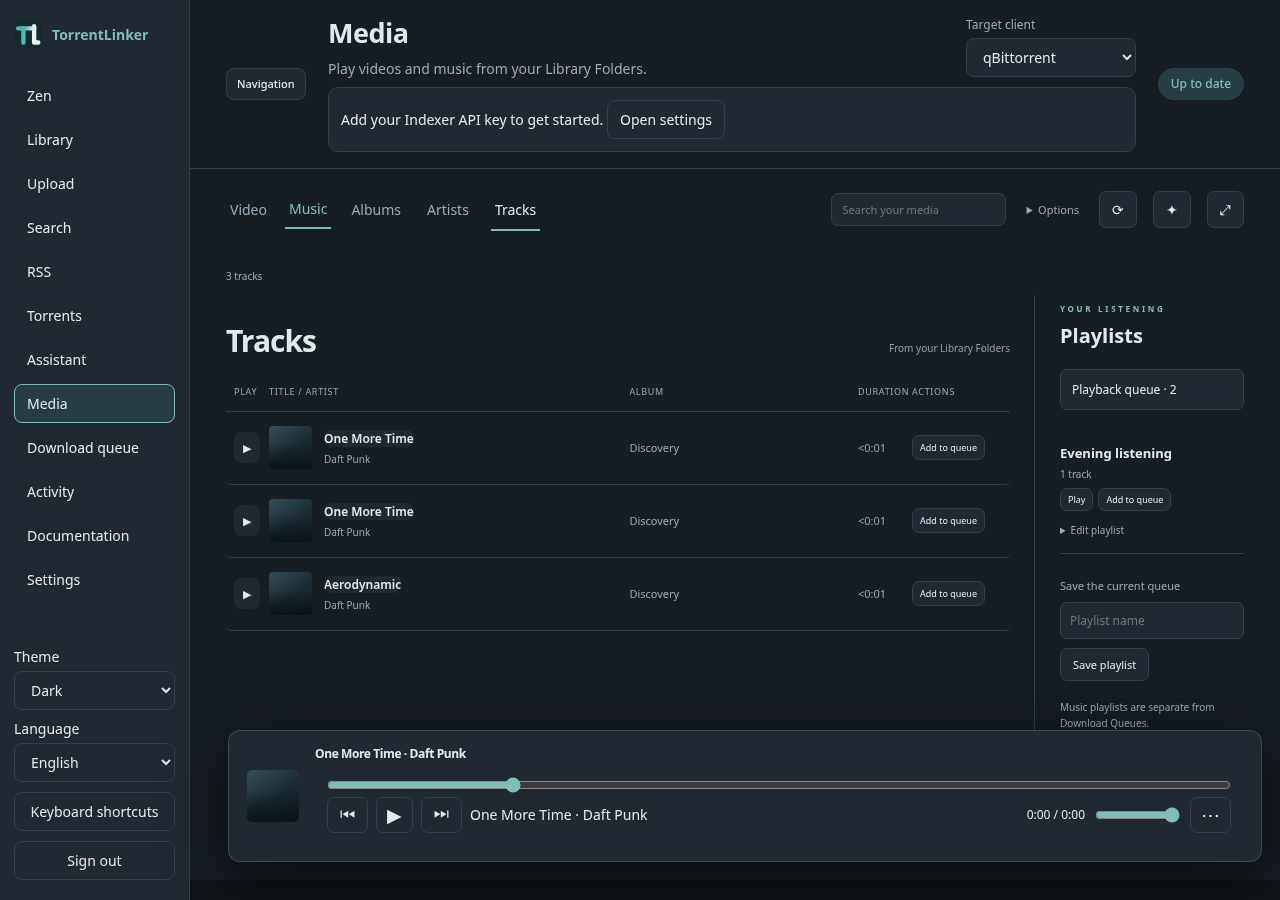
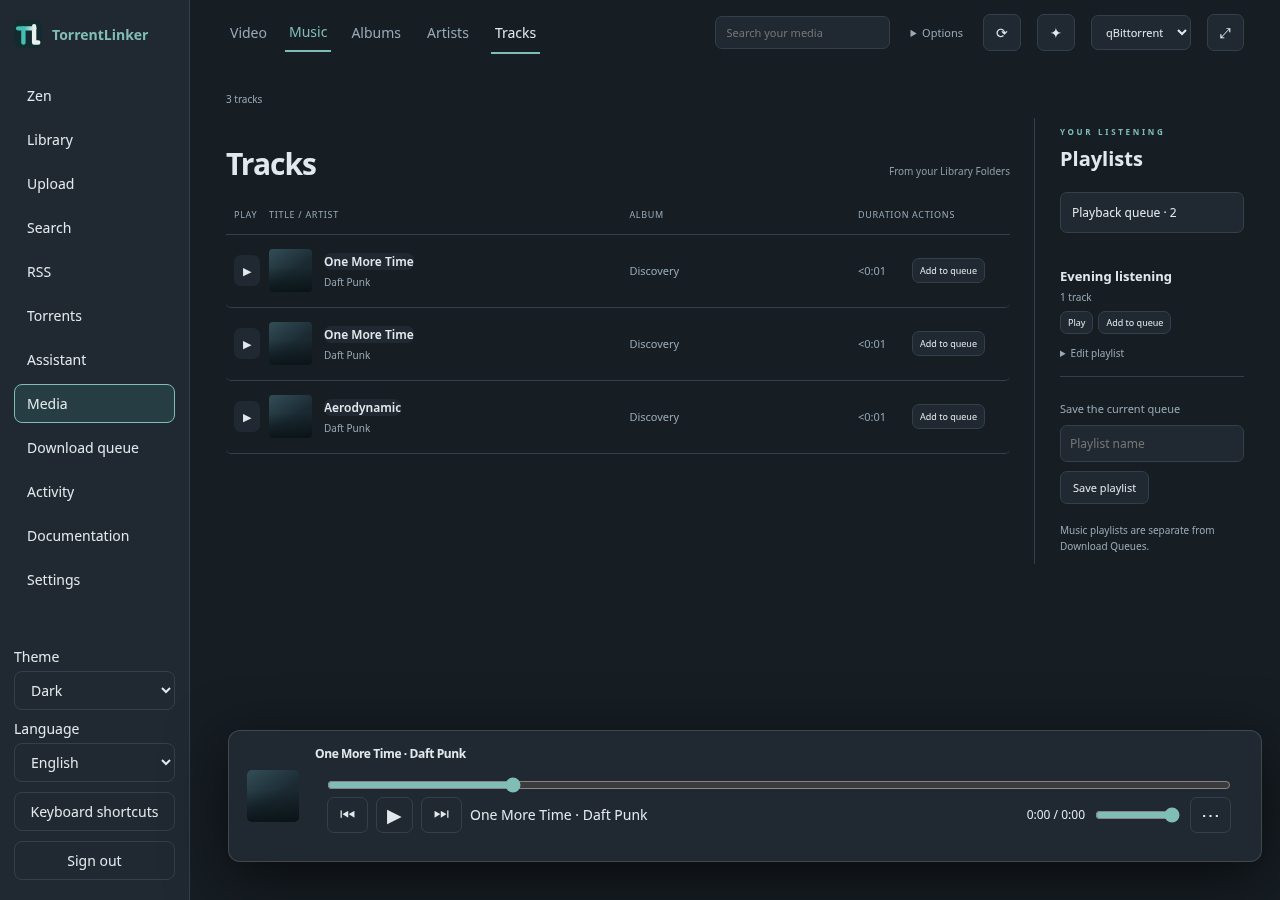
Release 1.0.0-beta.46

diff --git a/docs/guide/fr/media.md b/docs/guide/fr/media.md
@@ -8,7 +8,7 @@ L’onglet **Animés**, après Séries, regroupe les animés à part des Films e
 
 Quand **Afficher le contenu XXX** est activé dans les paramètres, un onglet **XXX** s’ajoute à Accueil, Films et Séries. Il ne montre que les médias des dossiers de bibliothèque de type XXX, qui n’apparaissent jamais dans les autres onglets, dans Reprendre la lecture ni dans les outils médias de l’assistant. Sans ce réglage, ces médias restent masqués.
 
-L'**Accueil cinéma** est l'interface vidéo par défaut : un titre mis en avant, une rangée pour reprendre la lecture et des affiches. Choisissez **Focus** pour une grande fiche du titre sélectionné et une bande de sélection, ou **Horizon**, inspiré d'Aeon Nox de Kodi : l'illustration du titre sélectionné remplit l'écran derrière des panneaux givrés avec ses repères de fichier (résolution, HDR, codec, audio), et l'affiche choisie s'agrandit. La **Vue Horizon** des paramètres choisit son écran : **Accueil** (une grande fiche au-dessus de rangées d'affiches), **Showcase** (un titre et un carrousel) ou **Mur** (un mur d'affiches dense ; une affiche s'affiche dans le bandeau du haut, un double-clic ouvre sa fiche) ; les **Options** de Médias la changent aussi, à côté de la disposition. Horizon a son propre lecteur : une barre fine pendant la lecture et la fiche du film en pause. Horizon reste sombre quel que soit le thème. Une disposition enregistrée en Collection par une version précédente ouvre le Mur d'Horizon. Le choix se règle dans **Interface des médias** dans les paramètres desktop, ou **Disposition des médias** dans les paramètres d'interface web. Le sélecteur de la vue Médias modifie la même préférence. L'application desktop mémorise ce choix dans ses paramètres ; chaque navigateur conserve le sien, comme pour le thème. Changer de disposition conserve la lecture, la file et le chat. Le menu compact donne accès aux dispositions et aux **Options de la bibliothèque** sur desktop, ou aux **Options** sur le web pour gérer les dossiers et les filtres. La commande de recherche ouvre un champ intégré. La fiche d'un titre présente ses versions, ses épisodes et, si disponible, l'aperçu partiel explicite. Les images et descriptions dépendent des métadonnées disponibles.
+Médias n'a pas d'en-tête de page : son menu contient le sélecteur **Client cible**, à gauche du bouton Media Center. L'**Accueil cinéma** est l'interface vidéo par défaut : un titre mis en avant, une rangée pour reprendre la lecture et des affiches. Le titre reste en haut pendant que les rangées défilent dessous ; la molette sur une rangée la fait défiler de côté, et un cran de molette vers le haut sur le titre fait revenir le menu. Choisissez **Focus** pour une grande fiche du titre sélectionné et une bande de sélection, ou **Horizon**, inspiré d'Aeon Nox de Kodi : l'illustration du titre sélectionné remplit l'écran derrière des panneaux givrés avec ses repères de fichier (résolution, HDR, codec, audio), et l'affiche choisie s'agrandit. La **Vue Horizon** des paramètres choisit son écran : **Accueil** (le titre au-dessus d'une catégorie d'affiches : la catégorie se choisit depuis son titre, la molette déplace la sélection et l'affiche choisie s'élève dans une lumière douce ; **Voir tout** ouvre la grille du Mur), **Showcase** (un titre et un carrousel que la molette parcourt) ou **Mur** (un mur d'affiches dense ; une affiche s'affiche dans le bandeau du haut, un double-clic ouvre sa fiche) ; les **Options** de Médias la changent aussi, à côté de la disposition. Horizon a son propre lecteur : une barre fine pendant la lecture et la fiche du film en pause. Horizon reste sombre quel que soit le thème. Une disposition enregistrée en Collection par une version précédente ouvre le Mur d'Horizon. Le choix se règle dans **Interface des médias** dans les paramètres desktop, ou **Disposition des médias** dans les paramètres d'interface web. Le sélecteur de la vue Médias modifie la même préférence. L'application desktop mémorise ce choix dans ses paramètres ; chaque navigateur conserve le sien, comme pour le thème. Changer de disposition conserve la lecture, la file et le chat. Le menu compact donne accès aux dispositions et aux **Options de la bibliothèque** sur desktop, ou aux **Options** sur le web pour gérer les dossiers et les filtres. Les grilles chargent la suite au fil du défilement. La commande de recherche ouvre un champ intégré. La fiche d'un titre présente ses versions, ses épisodes et, si disponible, l'aperçu partiel explicite. Les images et descriptions dépendent des métadonnées disponibles.
 
 Choisissez **Mode Media Center** dans Médias pour afficher toute l’application en plein écran et masquer sa navigation habituelle. La navigation vidéo et musique, le lecteur et la discussion restent accessibles. Utilisez **Revenir à TorrentLinker** ou **Échap** pour retrouver l’interface normale. Ce mode est distinct du plein écran du lecteur seul.
 

diff --git a/docs/guide/en/media.md b/docs/guide/en/media.md
@@ -30,7 +30,7 @@ The **Anime** tab, after Series, gathers anime apart from Films and Series: rece
 
 With **Show XXX content** enabled in Settings, an **XXX** tab joins Home, Films and Series. It shows only media from Library Folders of the XXX kind, which never appear in the other tabs, in Continue watching or in the Assistant's media tools. Without the setting, that media stays hidden.
 
-**Cinematic home** is the default video interface, with a featured title, continue-watching row and posters. Choose **Focus** for a large selected-title view with a compact selection strip, or **Horizon**, inspired by Kodi's Aeon Nox: the selected title's artwork fills the screen behind frosted panels with its file flags (resolution, HDR, codec, audio), and the chosen poster grows. **Horizon view** in Settings picks its screen: **Home** (a large banner over poster rows), **Showcase** (one title with a carousel) or **Wall** (a dense poster wall; a poster shows its title in the band above, double-click opens its details); Media's **Options** switches it too, next to the layout. Horizon has its own player: a slim bar while the film plays and its details when paused. Horizon stays dark whatever the theme. Media layout saved as Collection by an earlier version opens Horizon's Wall. Change **Media interface** in desktop Settings or **Media layout** in the web Interface settings; the selector in Media changes the same preference. Desktop remembers it in the app settings, while each browser remembers its own choice, like its theme. Changing layouts keeps playback, the queue and chat active. Use the compact menu for layout choices and **Library options** on desktop, or **Options** on the web for folder maintenance and additional filters. The search control opens an integrated search field. Title details include releases, episodes and explicit partial-preview actions where available. Artwork and descriptions depend on available library metadata.
+Media has no page header: its menu holds the **Target client** selector, left of the Media Center button. **Cinematic home** is the default video interface, with a featured title, continue-watching row and posters. The title stays at the top while the rows scroll beneath it; the wheel over a row scrolls that row sideways, and one wheel-up over the title brings the menu back. Choose **Focus** for a large selected-title view with a compact selection strip, or **Horizon**, inspired by Kodi's Aeon Nox: the selected title's artwork fills the screen behind frosted panels with its file flags (resolution, HDR, codec, audio), and the chosen poster grows. **Horizon view** in Settings picks its screen: **Home** (the title over one category of posters: pick the category from its title, the wheel moves the selection, and the chosen poster lifts in a soft light; **See all** opens the Wall's grid), **Showcase** (one title with a carousel the wheel moves through) or **Wall** (a dense poster wall; a poster shows its title in the band above, double-click opens its details); Media's **Options** switches it too, next to the layout. Horizon has its own player: a slim bar while the film plays and its details when paused. Horizon stays dark whatever the theme. Media layout saved as Collection by an earlier version opens Horizon's Wall. Change **Media interface** in desktop Settings or **Media layout** in the web Interface settings; the selector in Media changes the same preference. Desktop remembers it in the app settings, while each browser remembers its own choice, like its theme. Changing layouts keeps playback, the queue and chat active. Use the compact menu for layout choices and **Library options** on desktop, or **Options** on the web for folder maintenance and additional filters. Grids load more titles as you scroll. The search control opens an integrated search field. Title details include releases, episodes and explicit partial-preview actions where available. Artwork and descriptions depend on available library metadata.
 
 Choose **Media Center mode** in Media to make the whole app fullscreen and hide its normal navigation. Video and music browsing, the player and chat stay available. Use **Return to TorrentLinker** or **Escape** to restore the normal interface. This mode is separate from player-only fullscreen.
 

diff --git a/docs/guide/fr/recherche.md b/docs/guide/fr/recherche.md
@@ -17,7 +17,7 @@ La page reprend la structure de la page torrents de c411, avec les couleurs et l
 
 - **En-tête.** Le choix **Compact / Confortable**, **Affiches** et le bouton **File de téléchargement (N)**. Vos choix sont mémorisés.
 - **Barre de recherche.** Un grand champ pour le titre, le titre original ou le nom de release. Dans Films & Vidéos, **Casting & équipe** cherche aussi parmi les acteurs, réalisateurs et scénaristes.
-- **Pastilles de catégorie.** *Tout* et une pastille par catégorie, avec les totaux de c411. Une pastille filtre aussitôt. Le menu **Catégorie** en dessous choisit une sous-catégorie.
+- **Pastilles de catégorie.** *Tout* et une pastille par catégorie, avec les totaux de c411. Une pastille filtre aussitôt. Le menu **Catégorie** en dessous choisit une sous-catégorie de la pastille choisie ; il est masqué sous *Tout*. Activer le contenu adulte affiche XXX sans recharger.
 - **Filtres.** Des boutons arrondis qui ouvrent une liste à cocher avec recherche (résolution, source, codec, HDR, audio, canaux, langue, profil, genre, saison, etc.), puis **Année**, **Team** et **Uploader**. Team accepte un nom ou un slug de team, comme sur c411. À partir de quatre valeurs choisies, elles apparaissent aussi en pastilles que l’on retire une à une. **Exclusivités** et le bouton cœur des **soins palliatifs** sont à côté du menu Catégorie. **S’abonner au RSS** reprend la requête dans un nouvel abonnement, et **Tout effacer** remet tout à zéro.
 - **Recherche automatique.** Les filtres, les boutons, les pastilles, les puces de tri et les liens de pages relancent la recherche. Pour les filtres, une pause d’environ une seconde regroupe plusieurs clics en une requête. Une année à moitié saisie ne lance rien. Le bouton Recherche et Entrée fonctionnent toujours.
 - **Carte des résultats.** Le nombre total de résultats et leur taille, une rangée de **puces de tri** (Âge, Seeders, Leechers, Taille, Complétés, Commentaires, Nom, Type, et Pertinence pendant une saisie ; cliquez sur la puce active pour inverser l’ordre), et des liens de pages numérotées au-dessus et en dessous.

diff --git a/docs/guide/en/search.md b/docs/guide/en/search.md
@@ -29,7 +29,7 @@ The page follows c411's torrents page, with TorrentLinker's own colors and extra
 
 - **Header.** The **Compact / Comfortable** switch, **Posters**, and the **Download queue (N)** button. Your choices are remembered.
 - **Search bar.** A large field for the title, original title or release name. On Films & Vidéos, **Cast & crew** also searches actors, directors and screenwriters.
-- **Category pills.** *All* and one pill per category, with c411's own totals. A pill filters at once. The **Category** menu below picks a subcategory.
+- **Category pills.** *All* and one pill per category, with c411's own totals. A pill filters at once. The **Category** menu below picks a subcategory of the chosen pill; it is hidden under *All*. Turning on adult content shows XXX without reloading.
 - **Filters.** Rounded buttons that open a searchable checklist (resolution, source, codec, HDR, audio, channels, language, profile, genre, season and so on), then **Year**, **Team** and **Uploader**. Team takes a team name or slug, as on c411. When four or more values are chosen they also show as chips you can remove one by one. **Exclusive** and the heart button for **soins palliatifs** sit next to the Category menu. **Subscribe to RSS** carries the query into a new subscription, and **Clear all** resets everything.
 - **Automatic search.** Filters, toggles, pills, sort chips and page links search by themselves. Filter changes wait about a second so several clicks make one request. A half-typed year does not search. The Search button and Enter still work.
 - **Results card.** The total number of matches and their size, a row of **sort chips** (Age, Seeders, Leechers, Size, Completed, Comments, Name, Type, and Relevance while a query is typed; click the active chip to flip the direction), and numbered page links above and below.

diff --git a/docs/releases/v1.0.0-beta.46.md b/docs/releases/v1.0.0-beta.46.md
@@ -1,0 +1,25 @@
+# TorrentLinker 1.0.0-beta.46
+
+## Playback
+
+- Desktop video no longer stutters every few seconds: the player saves its position off the interface thread, and the media database no longer waits on the disk for each save.
+
+## Media
+
+- Media has no page header any more. Its menu holds the **Target client** selector, left of the Media Center button.
+- **Cinematic home:** the selected title stays at the top while the rows scroll beneath it and is a little lower. The wheel over a row scrolls that row sideways, and one wheel-up over the title brings the menu back.
+- **Horizon Home** fills one screen. The category's title is its menu, and the row loads the whole category as the selection moves along it. The wheel moves the selection, and the chosen poster lifts in a soft light, with its neighbours in a wave. **See all** opens the Wall's compact grid.
+- **Horizon Showcase** fits one screen, and the wheel moves its carousel's selection.
+- Grids load more titles as you scroll, without a **Load more** button. The title panel's **Assistant** button is gone: ✦ in the menu opens the same chat.
+
+## Search and keyring
+
+- The **Category** menu lists only the sub-categories of the chosen pill, and is hidden under *All*. Turning on adult content shows XXX without reloading.
+- A dismissed keyring unlock prompt is no longer shown again on every read.
+
+## Installation
+
+- Windows, Linux AppImage, macOS Apple Silicon, browser companion and Docker distributions are provided by this release.
+- Restart an existing desktop or server installation after updating. For Docker, use `ghcr.io/vietnoirien/torrentlinker:1.0.0-beta.46`, or update the `beta` tag.
+
+This is a beta release.

diff --git a/docs/guide/fr/web-docker.md b/docs/guide/fr/web-docker.md
@@ -47,7 +47,7 @@ L'image démarre toujours avec l'UID/GID 1000 par défaut. Les déploiements exi
 La prise en charge de PUID/PGID au démarrage est disponible à partir de **1.0.0-beta.21**. Choisissez cette version ou le tag `beta` ; l'ancienne image stable `latest` ne la contient pas. Pour utiliser un compte du NAS, activez explicitement l'initialisation :
 
 ```bash
-TL_IMAGE_TAG=1.0.0-beta.45 PUID=1001 PGID=100 docker compose \
+TL_IMAGE_TAG=1.0.0-beta.46 PUID=1001 PGID=100 docker compose \
   -f compose.yaml -f deploy/compose.identity.yaml up -d --pull always
 ```
 

diff --git a/docs/guide/en/web-docker.md b/docs/guide/en/web-docker.md
@@ -47,7 +47,7 @@ The image still starts as UID/GID 1000 by default. Existing deployments with `ca
 Runtime PUID/PGID support is available from **1.0.0-beta.21**. Select that version or the `beta` tag; the older `latest` stable image does not include it. To use a NAS account, enable initialization explicitly:
 
 ```bash
-TL_IMAGE_TAG=1.0.0-beta.45 PUID=1001 PGID=100 docker compose \
+TL_IMAGE_TAG=1.0.0-beta.46 PUID=1001 PGID=100 docker compose \
   -f compose.yaml -f deploy/compose.identity.yaml up -d --pull always
 ```
 
